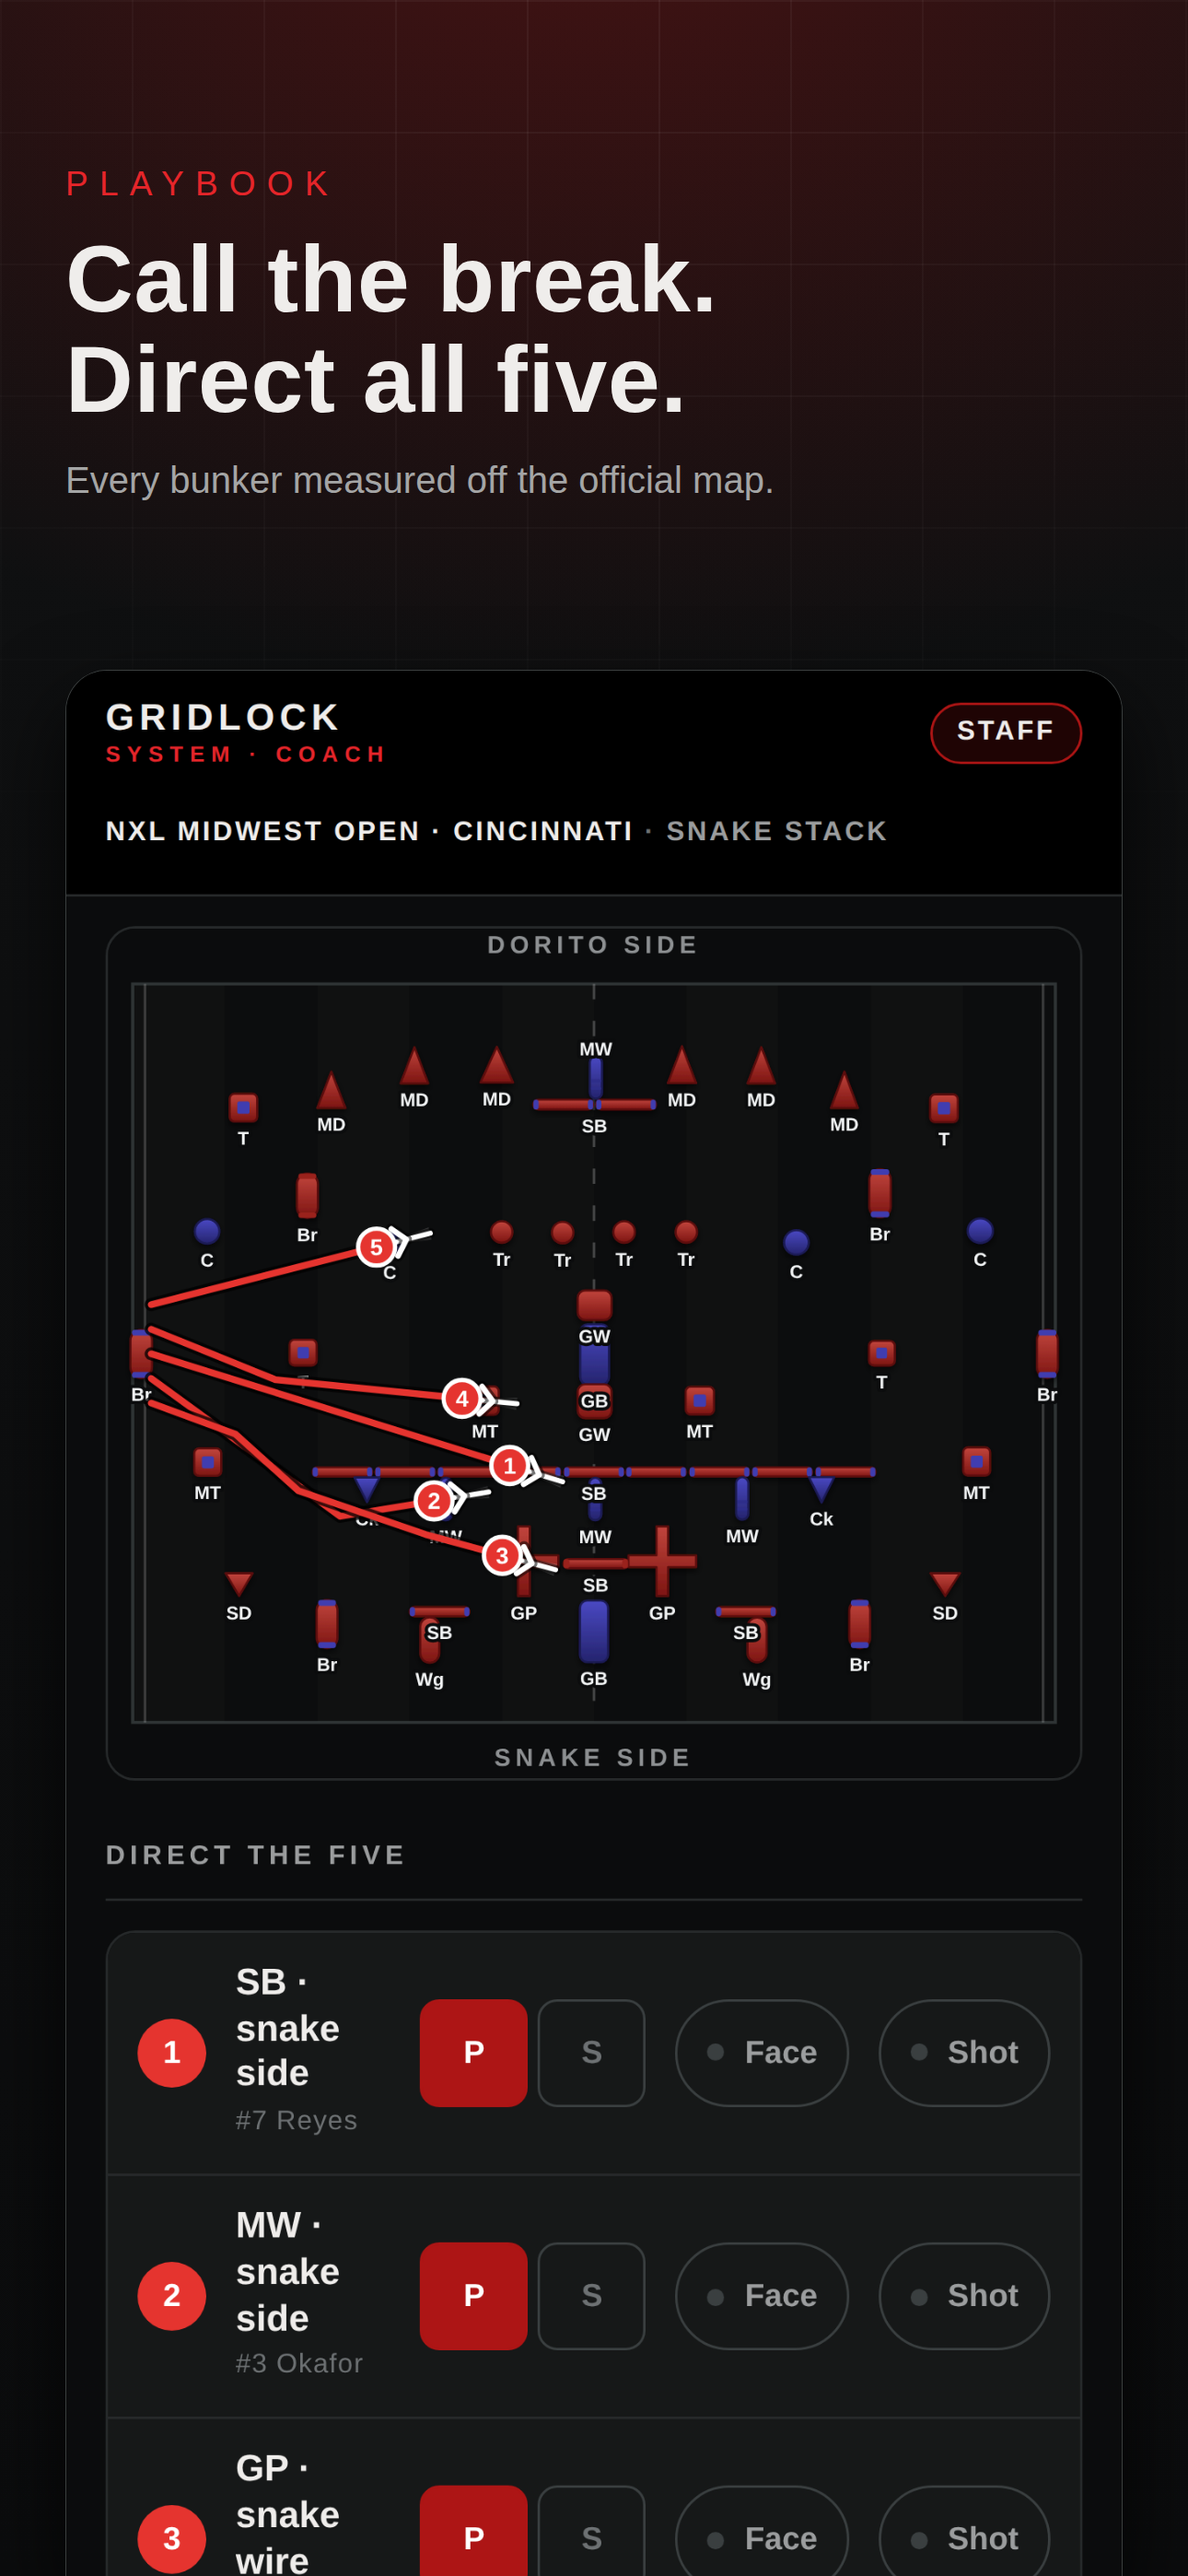
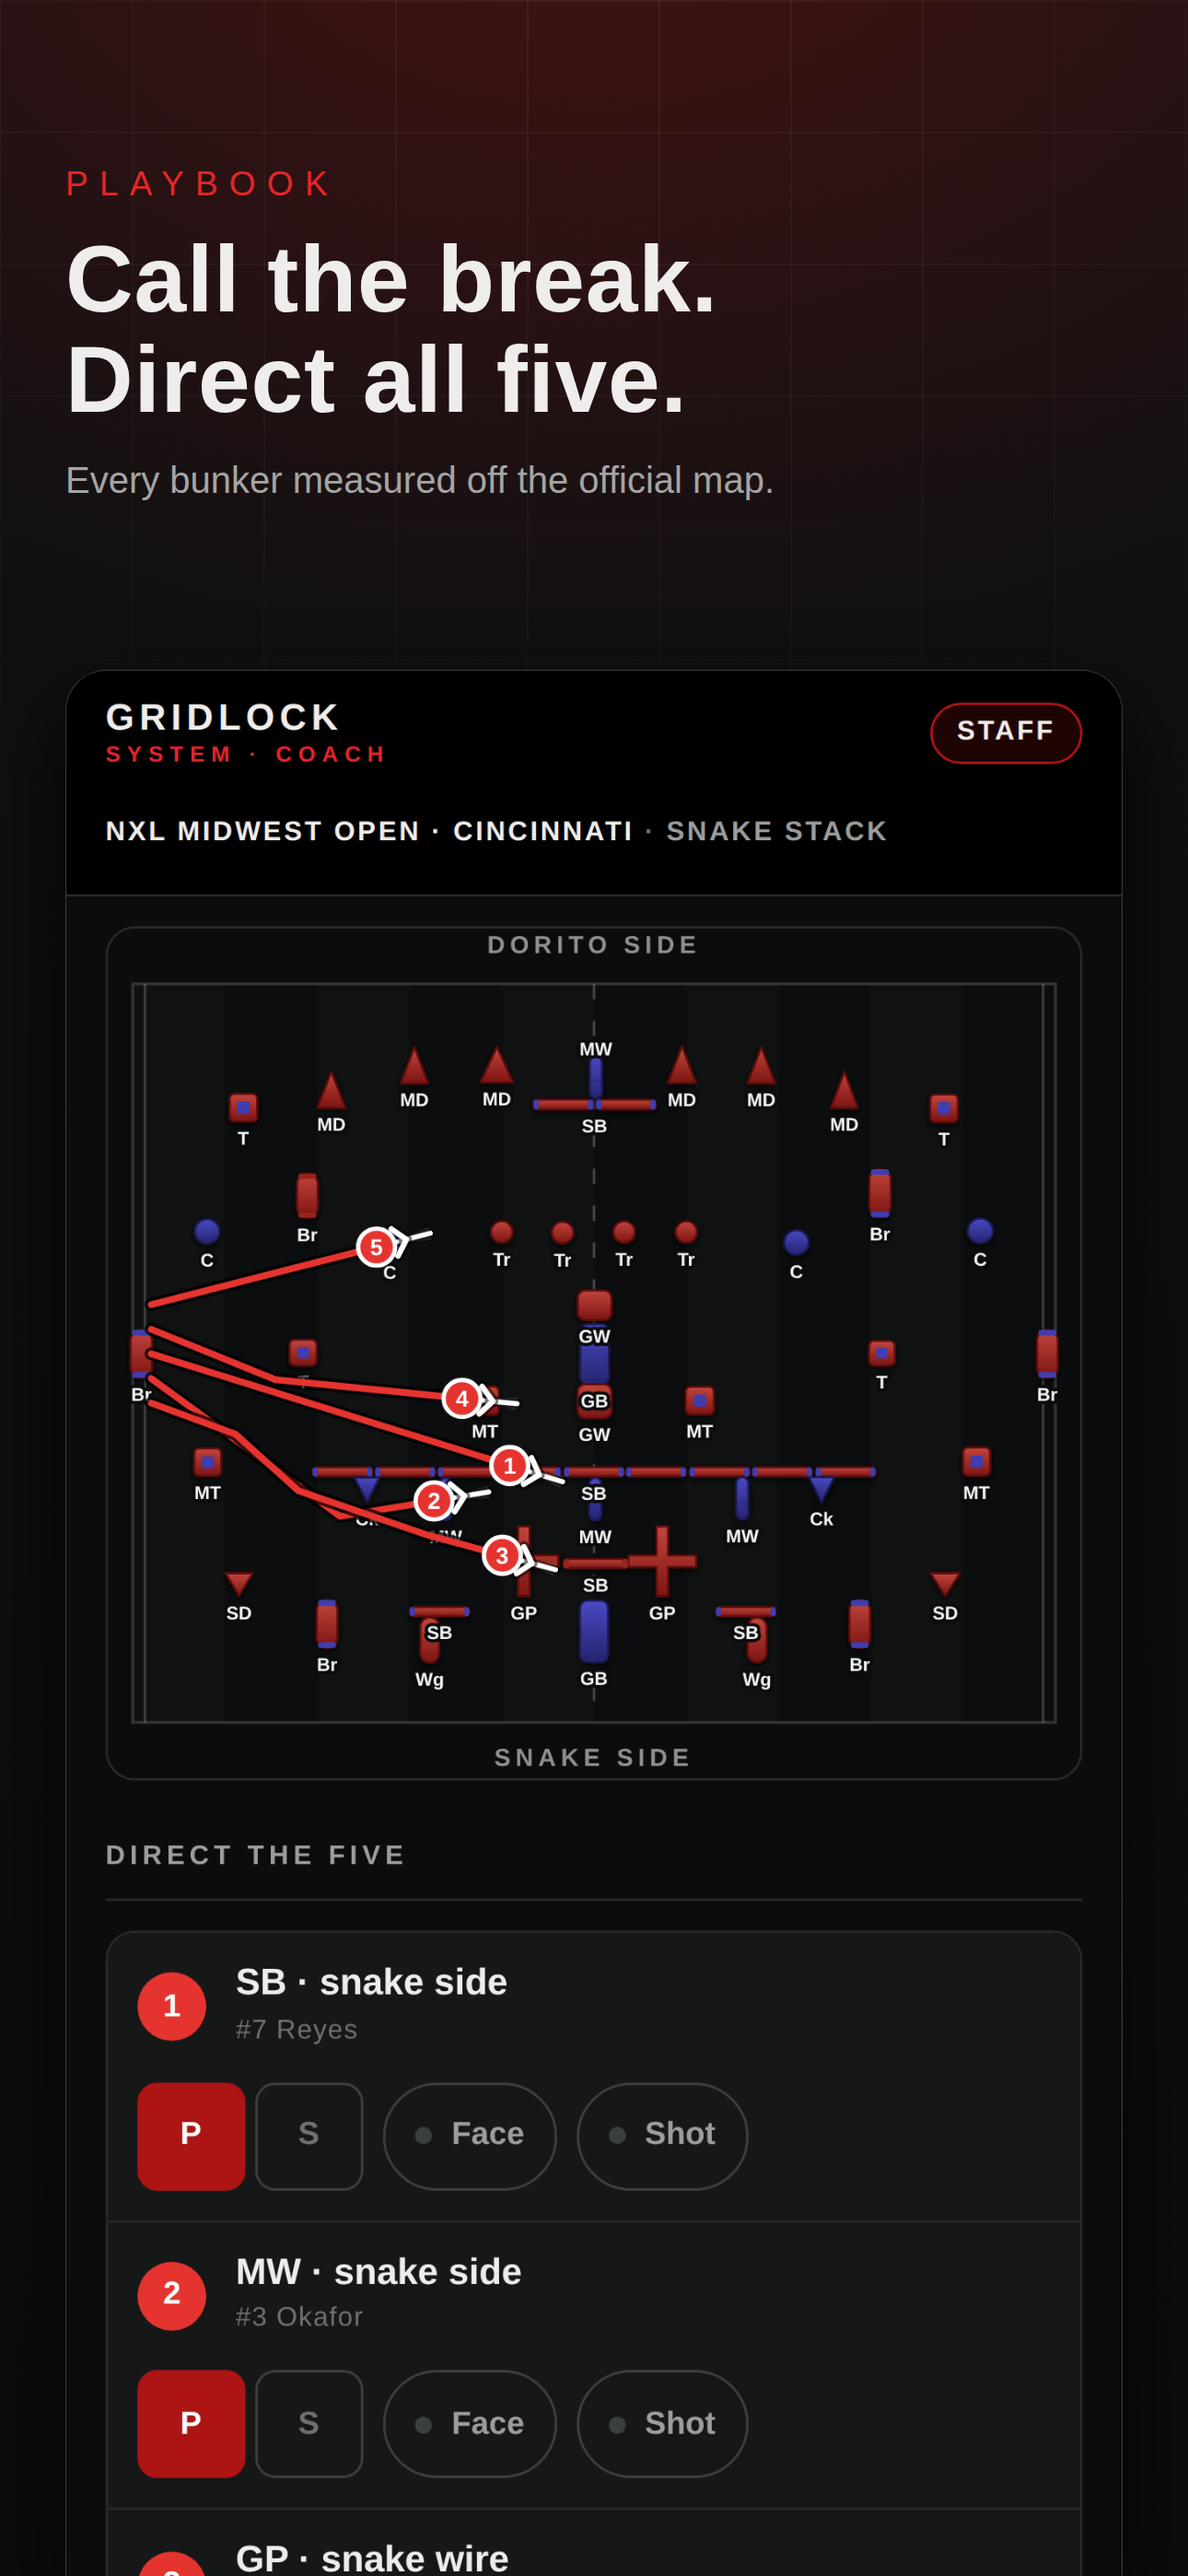
Give the direct-the-five controls their own row
Raising every control to 44 px left about 90 px for the job label on a phone,
which broke "SB · snake side" across three lines and made the busiest list in
the app look broken. The job is what is being read and the controls act on it,
so on a phone they take their own row; from 520 px up they sit back on the same
line, right-aligned. One line on every device from an SE to a 13-inch iPad.

143/143 function checks, 61/61 device checks, 58/58 bunkers at 0.00 ft.

Claude-Session: https://claude.ai/code/session_019NY29crEcm2oYkRmb2ARNX

diff --git a/web/index.html b/web/index.html
@@ -262,6 +262,13 @@ svg.field{width:100%;height:auto;display:block}
 .assign__body{flex:1;min-width:0;display:flex;flex-direction:column;gap:2px}
 .assign__job{font-size:var(--t-md);font-weight:600;line-height:1.25}
 .assign__who{font-size:var(--t-xs);color:var(--dim);letter-spacing:.04em}
+/* The job is the thing being read; the controls act on it. On a phone there is
+   not room for both on one line once every control is 44 px, so the controls
+   take their own row rather than breaking the label into three. */
+.assign__ctl{flex:1 0 100%;display:flex;align-items:center;gap:var(--s2);flex-wrap:wrap}
+@media (min-width:520px){
+  .assign__ctl{flex:0 0 auto;justify-content:flex-end}
+}
 .ps{display:flex;gap:4px;flex:none}
 /* 44 px square. Apple asks for 44 pt and Android for 48 dp, but the real
    reason is the promise on the box: this gets tapped on a sideline, in a
@@ -1414,12 +1421,14 @@ function playbook(){
             <span class="assign__job">${esc(pth.label)}</span>
             <span class="assign__who">${who?esc("#"+who.num+" "+who.name):"unassigned"}</span>
           </span>
-          <span class="ps">
-            <button class="${role==="P"?"on":""}" onclick="setDirect('${pth.id}','role','P')">P</button>
-            <button class="${role==="S"?"on":""}" onclick="setDirect('${pth.id}','role','S')">S</button>
+          <span class="assign__ctl">
+            <span class="ps">
+              <button class="${role==="P"?"on":""}" onclick="setDirect('${pth.id}','role','P')">P</button>
+              <button class="${role==="S"?"on":""}" onclick="setDirect('${pth.id}','role','S')">S</button>
+            </span>
+            <button class="tgl ${d.face!=null?"on":""}" onclick="openPad('face','${pth.id}')"><i></i>${d.face!=null?FACE_GLYPH[d.face]:"Face"}</button>
+            <button class="tgl ${d.shot?"on":""}" onclick="openPad('shot','${pth.id}')"><i></i>${shotB?esc(callOf(shotB)):"Shot"}</button>
           </span>
-          <button class="tgl ${d.face!=null?"on":""}" onclick="openPad('face','${pth.id}')"><i></i>${d.face!=null?FACE_GLYPH[d.face]:"Face"}</button>
-          <button class="tgl ${d.shot?"on":""}" onclick="openPad('shot','${pth.id}')"><i></i>${shotB?esc(callOf(shotB)):"Shot"}</button>
           ${open?`<div class="pad">
             ${FACE_PAD.map(([g,deg])=>`<button class="${deg===null?(d.face==null?"on":""):(d.face===deg?"on":"")}"
               onclick="setDirect('${pth.id}','face',${deg===null?"null":deg})">${g}</button>`).join("")}
